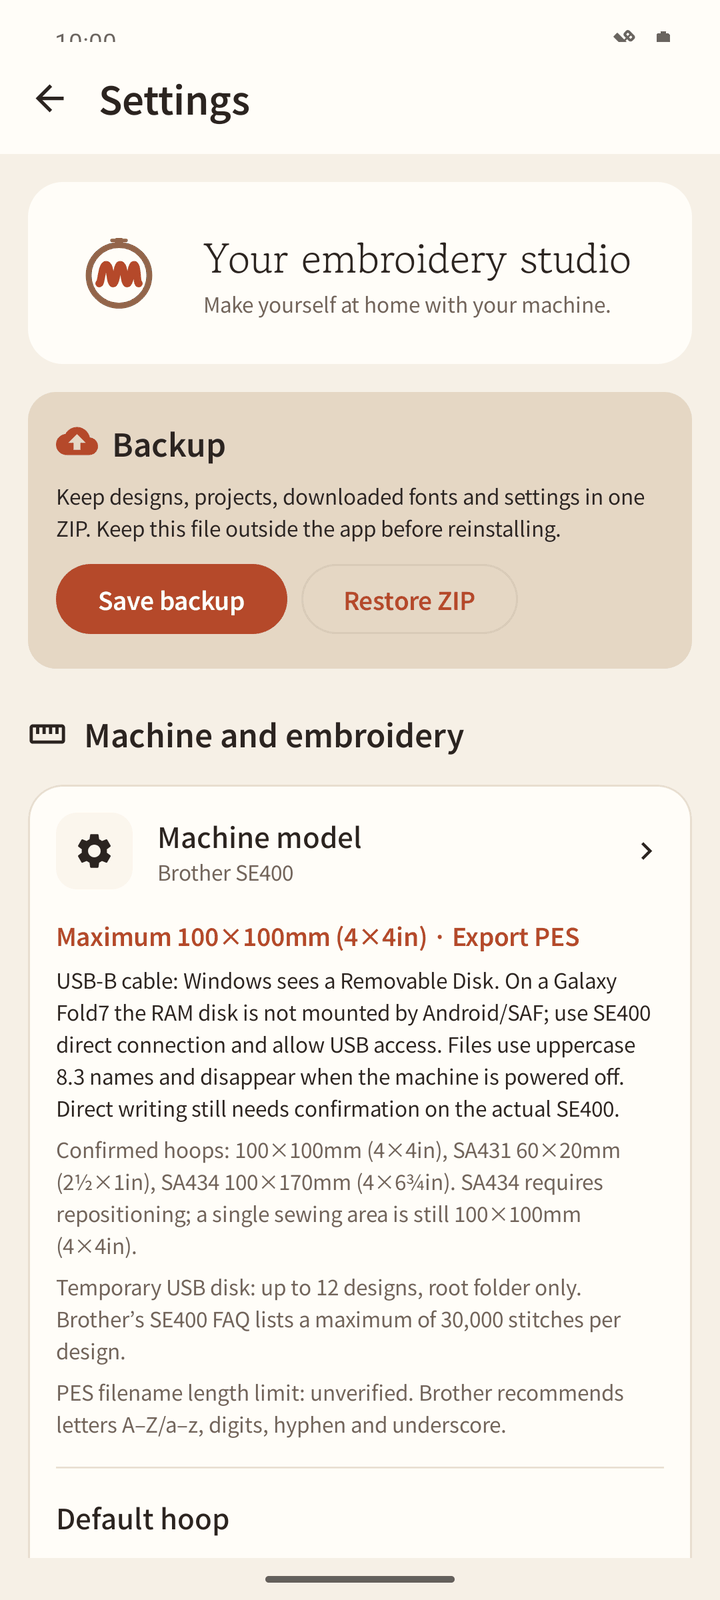
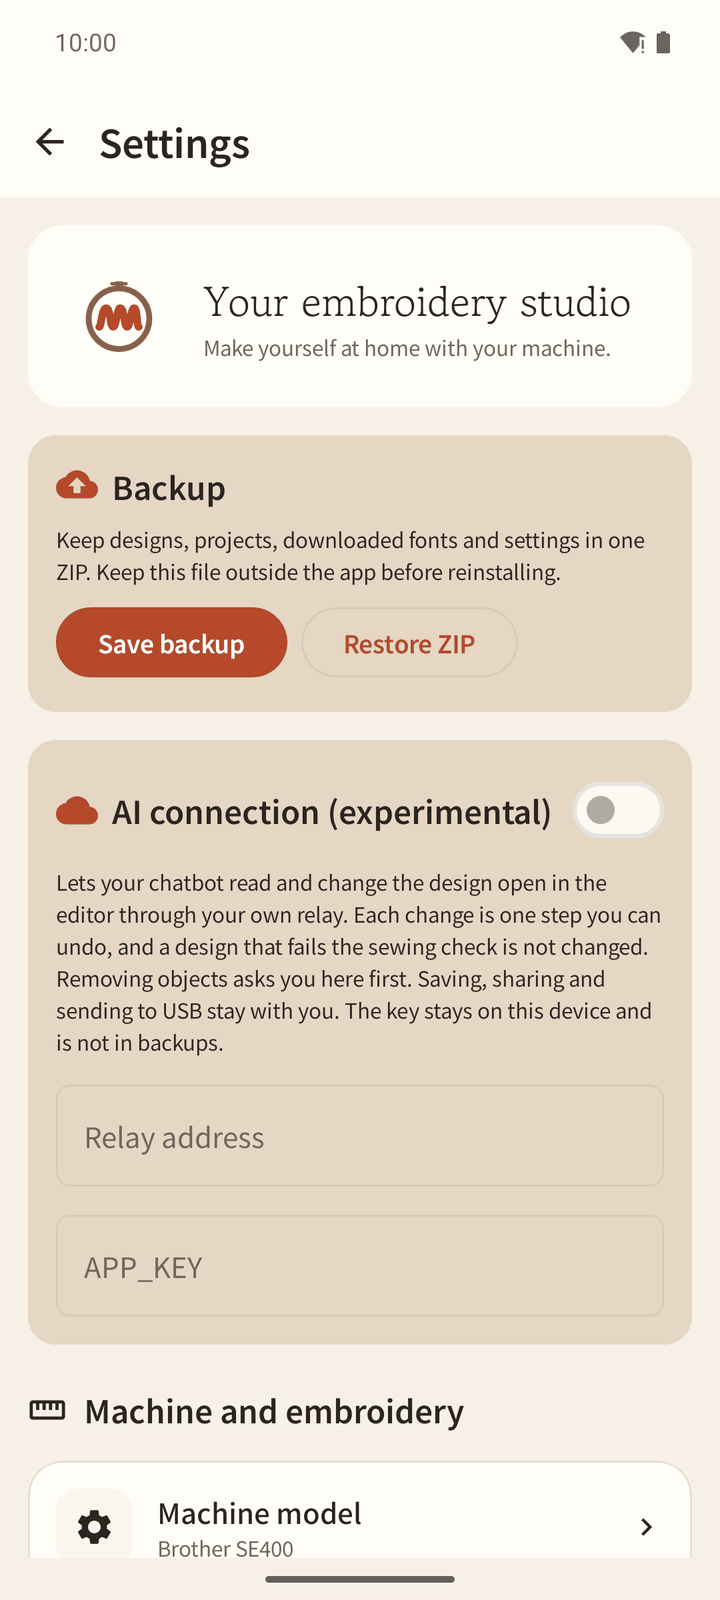
Docs: user guide EN/KO for v0.3.7 with new screenshots
Block editing, photo correction, thread-colour preview, 0.2mm colour
overlap and same-colour triple outline, thread texture (experimental),
shared pictures, My threads, AI connection (experimental) chapter.
Screenshots from emulator-5558 (en-US, ko-KR) using the bundled logo
and a synthetic flower picture; 720x1600 256-colour PNG as before.

diff --git a/docs/manual/user-guide.md b/docs/manual/user-guide.md
@@ -2,7 +2,7 @@
 
 **English** | [한국어](user-guide.ko.md)
 
-This guide covers myembro v0.2.8.
+This guide covers myembro v0.3.7.
 
 1. [Getting started](#1-getting-started)
 2. [Starting a new project](#2-starting-a-new-project)
@@ -13,9 +13,10 @@ This guide covers myembro v0.2.8.
 7. [Viewer: playback and statistics](#7-viewer-playback-and-statistics)
 8. [Sew-out check](#8-sew-out-check)
 9. [Sending to the machine](#9-sending-to-the-machine)
-10. [Backup and restore](#10-backup-and-restore)
+10. [Backup, restore and my threads](#10-backup-restore-and-my-threads)
 11. [About and known limitations](#11-about-and-known-limitations)
 12. [Ask AI](#12-ask-ai)
+13. [AI connection (experimental)](#13-ai-connection-experimental)
 
 ## 1. Getting started
 
@@ -46,12 +47,33 @@ Install the APK from the latest GitHub pre-release. The home screen opens first.
 
 ![Editor with the myembro logo](../images/manual/en/03-editor-logo.png)
 
-- Top: back, undo/redo, menu. Below it the hoop chip (for example **Hoop 100×100mm**), the object count and the **Save** button.
+- Top: back, home, **Ask AI** (sparkle, chapter 12), undo/redo, menu. Below it the hoop chip (for example **Hoop 100×100mm**), **Edit blocks**, the object count and the **Save** button.
 - Left tools: select, pan (hand), fit to view, grid.
 - **Layers** panel: each design or lettering object is a layer; the eye icon shows or hides it, **+** adds one.
 - Tap an object to select it. Drag the corner handles to resize; the size labels show mm and inches.
 - Bottom sheet tabs **Transform**, **Stitches**, **Colors**. In Transform, type **Width (mm)** / **Height (mm)** (the lock keeps the aspect ratio), set rotation, flip, then tap **Apply**.
 - Bottom bar: **Select**, **Designs** (add a design), **Transform**, **Text**, **Layers**.
+
+### Block editing
+
+Designs made from a photo, an emoji or an SVG keep their color areas as blocks. Tap **Edit blocks** to change how each block is sewn.
+
+![Block editing: one region selected](../images/manual/en/03b-block-edit.png)
+
+1. Tap a region on the canvas. Turn on **Multi-select** to pick several, or tap **Select all**.
+2. Choose the **Stitch type**: **Fill**, **Satin** or **Running**. A type the region cannot use is greyed out, with the reason above it (for example *Satin: this shape cannot be satin*).
+3. For Fill, choose the **Texture**: **Basic**, **Pattern** (an Ink/Stitch meander tile), **Contour** or **Circular**.
+4. **Direction**: **Auto**, or **Manual** with a stitch angle.
+5. **Density**: only **Normal** for now. Dense and sparse come in a later version.
+6. Tap **Apply**. The stitches are made in the background and checked with the real sewing check. A **Cancel** button and the elapsed time show while it works. If the check fails, nothing changes and the previous settings stay.
+
+![Block editing: sewing order](../images/manual/en/03c-block-order.png)
+
+**Sewing order** shows where the selected region is sewn (front = sewn first). Use **To front**, **Forward**, **Back** and **To back** to move it. Every change is one undo step. The badge at the top shows **Sewing check passed · in hoop** for the whole design.
+
+Designs that are only stitches (such as an opened PES file) have no blocks, so block editing is not available for them.
+
+### Hoop size
 
 The hoop is 100×100mm by default. Designs must stay inside it: coordinates run 0–999 in 0.1mm units, so the maximum design size is 99.9mm. The app enforces this automatically.
 
@@ -79,26 +101,51 @@ Single-line fonts (for example Hershey Script 1-stroke) offer **Normal** (runnin
 
 Choose **From a photo / drawing** on the new project sheet. The screen has three steps: crop, choose a mode, then the result.
 
-**Step 2 — mode.** Choose **Silhouette**, **Outline** or **Color drawing**.
+You can also share a picture to myembro from another app (gallery, browser, files). It opens on this same screen. An SVG drawing is used as it is: only the size slider is shown.
+
+**Step 2 — mode.** Choose **Silhouette**, **Outline** or **Color drawing**. Color drawing with 4 colors is selected first.
+
+![Color drawing mode](../images/manual/en/09-photo-color.png)
+
+**Correction** (all modes):
+- **Noise reduction**: Off, Weak, Medium or Strong. It removes small specks.
+- **Contrast**: 0.5× to 2.0×. 1.00× keeps the picture as it is.
+- **Black-and-white separation** (silhouette and outline only): splits the picture into dark and light automatically.
+- For color pictures with a transparent background, noise reduction and contrast are turned off.
+
+**Color drawing** (2–6 colors):
+- Set **Colors** with the slider, or turn on **Black & white**.
+- The preview shows the picture in the actual thread colors.
+- Transparent background is not sewn. The most common color at the edge is treated as background.
+- Colors are matched to Brother threads automatically. If you set **My threads** (chapter 10), only your threads are used.
+- Each color area is filled. Next to each other, colors overlap by 0.2mm so no gaps show. The outer edge of the design does not grow.
+- Each filled area gets a triple outline in the same color. If an outline would fail the sewing check, that outline is left out.
 
 ![Silhouette mode](../images/manual/en/07-photo-silhouette.png)
 
 - **Silhouette**: one color, filled. The **Detail** slider keeps smaller contours the higher it is.
-- **Embroidery size · width** slider: the aspect ratio is kept. The range is computed for the picture (20mm–77.1mm in this example), and the design is recalculated when you release the slider.
 
 ![Outline mode](../images/manual/en/08-photo-outline.png)
 
 - **Outline**: one color, traced outline of the same picture.
 
-![Color drawing mode](../images/manual/en/09-photo-color.png)
+**Embroidery size · width** slider (all modes): the aspect ratio is kept. The range is computed for the picture, and the design is recalculated when you release the slider. The largest size is 99.9mm.
 
-- **Color drawing** (2–6 colors): set **Colors** with the slider, or turn on **Black & white**. Transparent background is not stitched; the most common color at the edge is removed as background; colors are matched to the Brother 64-color threads automatically.
+**Thread texture (experimental).** In Color drawing, turn on **Thread texture** to sew the picture as layered thread lines, like a sketch.
+
+![Thread texture on](../images/manual/en/09c-photo-texture.png)
+
+- **Detail**: **Coarse**, **Normal** or **Fine**. Fine makes more stitches.
+- Texture embroidery opens in the editor as stitches. Its color blocks cannot be edited.
+- If there are too many stitches, the app says so. Make the picture smaller or choose Coarse.
+
+![Thread texture result](../images/manual/en/09d-photo-texture-result.png)
 
 **Step 3 — result.**
 
 ![Result with sew-out check passed](../images/manual/en/09b-photo-result.png)
 
-The result shows **Sewing check · Pass**, the stitch count and estimated time, the actual size and **Threads needed · Brother** (number and name). The time is an estimate. Tap **Edit** to keep editing or **Send to USB** to send it to the machine.
+The result shows **Sewing check · Pass**, the stitch count and estimated time, the actual size and **Threads needed · Brother** (number and name). A thread you do not own is marked **Not in my threads**. The time is an estimate. Making the stitches stops after 1 minute; then try lower detail or a smaller crop. Tap **Edit** to keep editing (including block editing, chapter 3) or **Send to USB** to send it to the machine.
 
 ## 6. Emoji
 
@@ -148,11 +195,15 @@ The clock icon in selection mode opens the recent USB transfer history (the scre
 
 **SE600/SE700:** machine profiles (100×100mm, USB memory) based on the manuals; transfer has not been tested on real machines yet.
 
-## 10. Backup and restore
+## 10. Backup, restore and my threads
 
 ![Settings: backup](../images/manual/en/15-settings-backup.png)
 
-At the top of **Settings**, **Backup** stores designs, projects, downloaded fonts and settings in one ZIP. Tap **Save backup** and keep the ZIP outside the app; **Restore ZIP** reads it back. Below it, **Machine model** shows the selected model (Brother SE400) with its maximum embroidery area (100×100mm) and notes.
+At the top of **Settings**, **Backup** stores designs, projects, downloaded fonts and settings in one ZIP. Tap **Save backup** and keep the ZIP outside the app; **Restore ZIP** reads it back. Below it are **AI connection (experimental)** (chapter 13) and **Machine model**, which shows the selected model (Brother SE400) with its maximum embroidery area (100×100mm) and notes.
+
+![My threads](../images/manual/en/15b-my-threads.png)
+
+**My threads** (under **Threads**): turn it on and tap **Choose threads** to tick the Brother threads you own. Search by name or number. Color drawings then use only your threads. An empty list uses all colors. My threads is kept in the backup.
 
 **Take a backup now.** The current APK is signed with a development key. When releases switch to the official signing key, the new version cannot be installed over the old one: you must uninstall once and reinstall, which deletes app data. Restore your ZIP afterwards.
 
@@ -160,7 +211,7 @@ At the top of **Settings**, **Backup** stores designs, projects, downloaded font
 
 ![Settings: theme and about](../images/manual/en/16-about.png)
 
-At the bottom of **Settings**: **Display theme**, **About** (**App license** GPL-3.0-or-later, **Open-source licenses**) and the version (0.2.8 with the build commit). myembro is GPL-3.0-or-later.
+At the bottom of **Settings**: **Display theme**, **About** (**App license** GPL-3.0-or-later, **Open-source licenses**) and the version (0.3.7 with the build commit). myembro is GPL-3.0-or-later.
 
 ![Home in dark theme](../images/manual/en/17-home-dark.png)
 
@@ -208,3 +259,18 @@ myembro sends **no stitches, pictures or files**, and the chatbot cannot reach y
 - It cannot download fonts.
 - It can add text only in fonts already on your phone (the prompt lists them with their height ranges).
 - Sizes and stitch types still follow the app's automatic rules and the sew-out check.
+
+## 13. AI connection (experimental)
+
+AI connection lets a chatbot work on your design directly, without copy and paste. It needs your own relay server (a Cloudflare Worker, see [relay/README.md](../../relay/README.md)) and a chatbot that supports MCP connectors, such as Claude. myembro still has no AI built in and stores no API key.
+
+1. In **Settings**, turn on **AI connection (experimental)**.
+2. Enter the **Relay address** (wss://…) and the **APP_KEY** of your relay. The key stays on this phone and is not in backups.
+3. Add the relay as a connector in your chatbot. A notification shows while the connection is on.
+
+What the chatbot can do:
+- Read the design open in the editor and change it. Each change is one undo step. A change that fails the sewing check is not made.
+- Add a picture it drew (SVG, PNG or JPEG). It opens in the photo window first, so you check it before it is added.
+- Look at a photo you choose: in the editor menu tap **Send a photo to AI** and confirm. The chatbot sees a reduced copy only.
+
+What stays with you: removing objects asks you on the phone first (you have 90 seconds), and saving, sharing and sending to USB are always done by you in the app.
